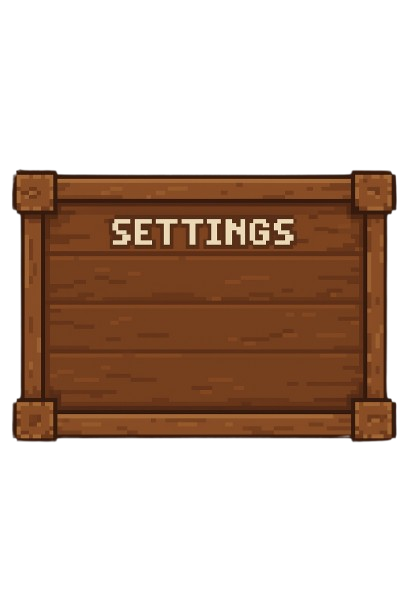
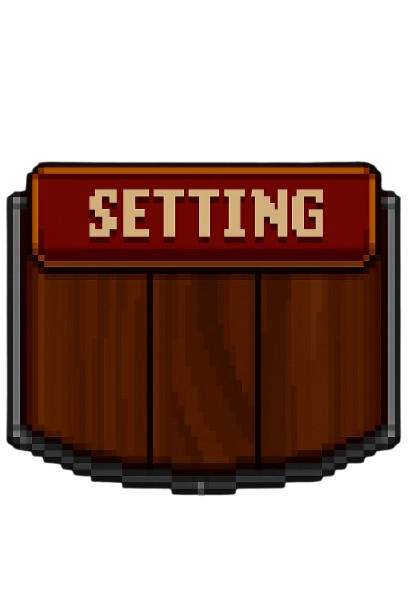
sửa setting menu

diff --git a/InitGame.cpp b/InitGame.cpp
@@ -1609,8 +1609,8 @@ void Game::initUIFlow()
 		panel->cSet->sprite.setScale(1.5f, 1.5f);
 
 		Vector2f panelCenter = panel->cPosition->position;
-		float row1_y = panelCenter.y - 25.f;
-		float row2_y = panelCenter.y + 50.f;
+		float row1_y = panelCenter.y - 10.f;
+		float row2_y = panelCenter.y + 65.f;
 		float icon_x = panelCenter.x - 170.f;
 		float slider_x = panelCenter.x + 50.f;
 
@@ -1643,7 +1643,7 @@ void Game::initUIFlow()
 
 		auto back = m_scenes[AppState::SettingsMenu].addEntity("Back");
 		back->cSet = make_shared<CSet>("IMGS/Buttons/back.png");
-		back->cPosition = make_shared<CPosition>(Vector2f(panelCenter.x, panelCenter.y + 115.f));
+		back->cPosition = make_shared<CPosition>(Vector2f(panelCenter.x, panelCenter.y + 155.f));
 		back->cSet->sprite.setOrigin(back->cSet->sprite.getLocalBounds().width / 2.f, back->cSet->sprite.getLocalBounds().height / 2.f);
 		back->cInput = make_shared<CInput>([this]()
 			{
@@ -1663,7 +1663,7 @@ void Game::initUIFlow()
 
 		auto aboutButton = m_scenes[AppState::SettingsMenu].addEntity("AboutButton");
 		aboutButton->cSet = make_shared<CSet>("IMGS/Buttons/aboutus.png");
-		aboutButton->cPosition = make_shared<CPosition>(Vector2f(panelCenter.x - 100.f, panelCenter.y + 115.f));
+		aboutButton->cPosition = make_shared<CPosition>(Vector2f(panelCenter.x - 100.f, panelCenter.y + 155.f));
 		aboutButton->cSet->sprite.setOrigin(aboutButton->cSet->sprite.getLocalBounds().width / 2.f, aboutButton->cSet->sprite.getLocalBounds().height / 2.f);
 		aboutButton->cSet->sprite.setScale(4.0f, 4.0f);
 		aboutButton->cInput = make_shared<CInput>([this]() {
@@ -1679,7 +1679,7 @@ void Game::initUIFlow()
 
 		auto rulesButton = m_scenes[AppState::SettingsMenu].addEntity("RulesButton");
 		rulesButton->cSet = make_shared<CSet>("IMGS/Buttons/rules.png");
-		rulesButton->cPosition = make_shared<CPosition>(Vector2f(panelCenter.x + 100.f, panelCenter.y + 115.f));
+		rulesButton->cPosition = make_shared<CPosition>(Vector2f(panelCenter.x + 100.f, panelCenter.y + 155.f));
 		rulesButton->cSet->sprite.setOrigin(rulesButton->cSet->sprite.getLocalBounds().width / 2.f, rulesButton->cSet->sprite.getLocalBounds().height / 2.f);
 		rulesButton->cSet->sprite.setScale(4.0f, 4.0f);
 		rulesButton->cInput = make_shared<CInput>([this]() {
@@ -1701,12 +1701,12 @@ void Game::initUIFlow()
 		panel->cSet = make_shared<CSet>("IMGS/GUI/About.png");
 		panel->cPosition = make_shared<CPosition>(Vector2f(m_windowConfig.width / 2.f, m_windowConfig.height / 2.f));
 		panel->cSet->sprite.setOrigin(panel->cSet->sprite.getLocalBounds().width / 2.f, panel->cSet->sprite.getLocalBounds().height / 2.f);
-		panel->cSet->sprite.setScale(1.5f, 1.5f);
+		panel->cSet->sprite.setScale(2.5f, 2.5f);
 
 
 		auto backBtn = m_scenes[AppState::AboutUs].addEntity("BackAbout");
 		backBtn->cSet = make_shared<CSet>("IMGS/Buttons/back.png");
-		backBtn->cPosition = make_shared<CPosition>(Vector2f(m_windowConfig.width / 2.f, m_windowConfig.height / 2.f + 200.f));
+		backBtn->cPosition = make_shared<CPosition>(Vector2f(m_windowConfig.width / 2.f, m_windowConfig.height / 2.f + 350.f));
 		backBtn->cInput = make_shared<CInput>([this]()
 			{
 				m_state1 = AppState::SettingsMenu;
@@ -1729,11 +1729,11 @@ void Game::initUIFlow()
 		panel->cSet = make_shared<CSet>("IMGS/GUI/GameRules.png");
 		panel->cPosition = make_shared<CPosition>(Vector2f(m_windowConfig.width / 2.f, m_windowConfig.height / 2.f));
 		panel->cSet->sprite.setOrigin(panel->cSet->sprite.getLocalBounds().width / 2.f, panel->cSet->sprite.getLocalBounds().height / 2.f);
-		panel->cSet->sprite.setScale(1.5f, 1.5f);
+		panel->cSet->sprite.setScale(2.5f, 2.5f);
 
 		auto backBtn = m_scenes[AppState::Rules].addEntity("BackRules");
 		backBtn->cSet = make_shared<CSet>("IMGS/Buttons/back.png");
-		backBtn->cPosition = make_shared<CPosition>(Vector2f(m_windowConfig.width / 2.f, m_windowConfig.height / 2.f + 200.f));
+		backBtn->cPosition = make_shared<CPosition>(Vector2f(m_windowConfig.width / 2.f, m_windowConfig.height / 2.f + 300.f));
 		backBtn->cInput = make_shared<CInput>([this]()
 			{
 				m_state1 = AppState::SettingsMenu;
